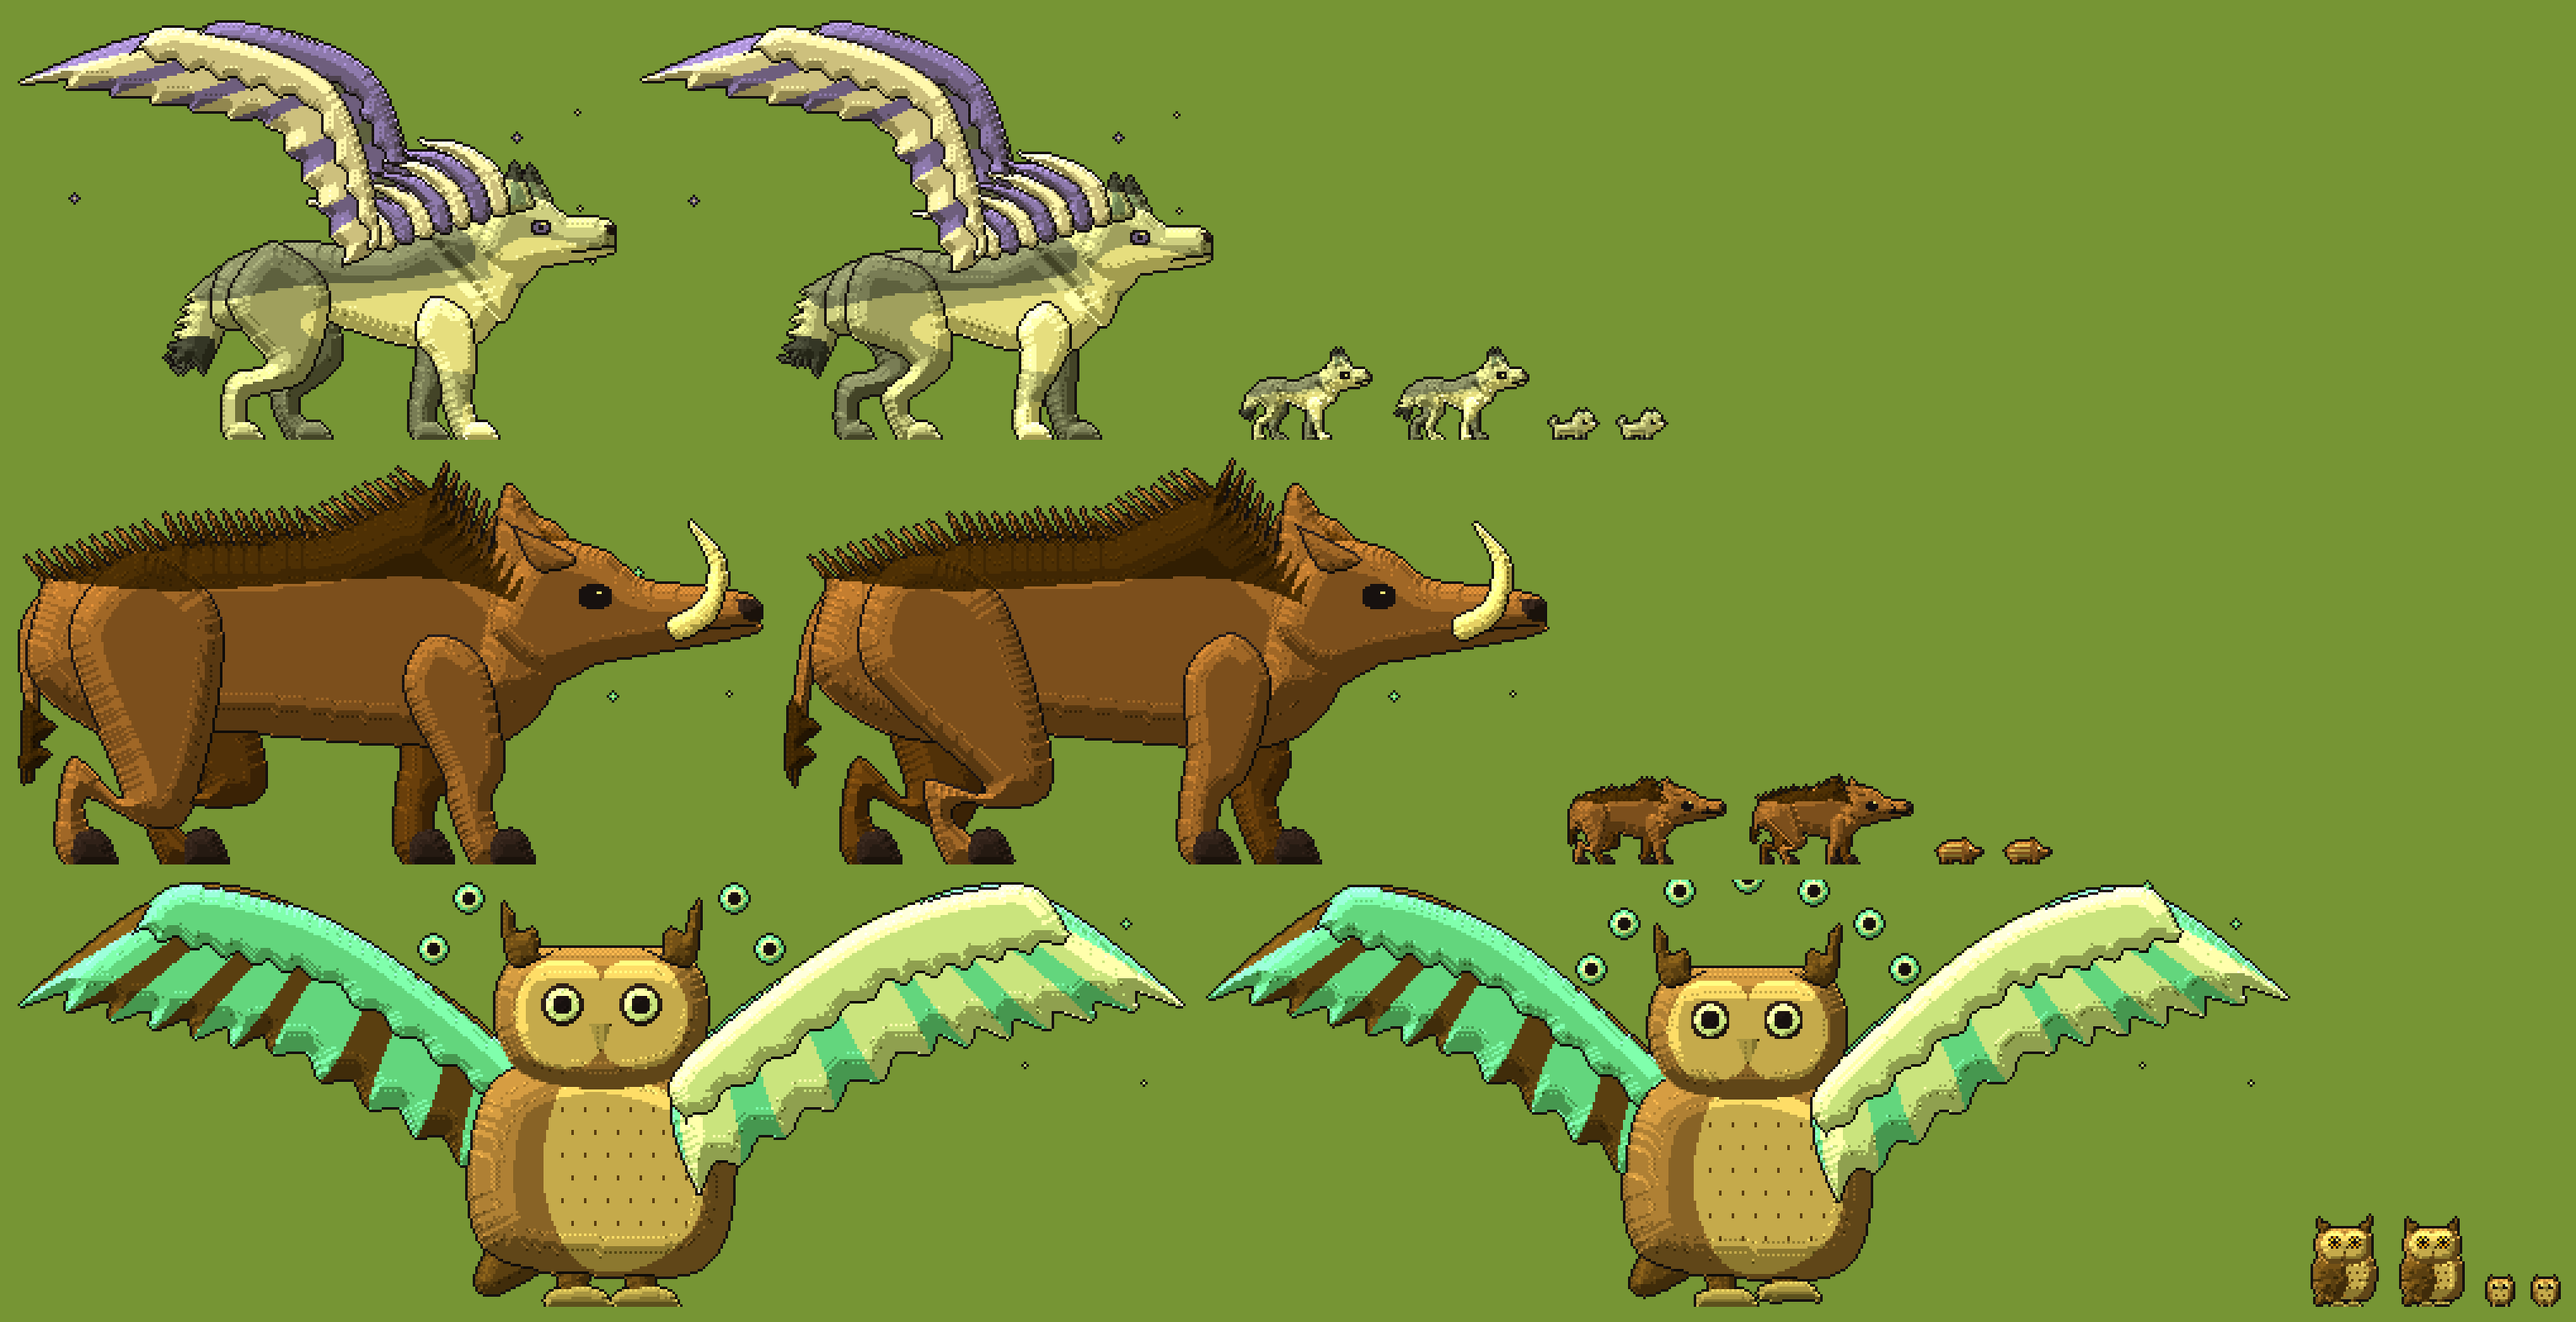
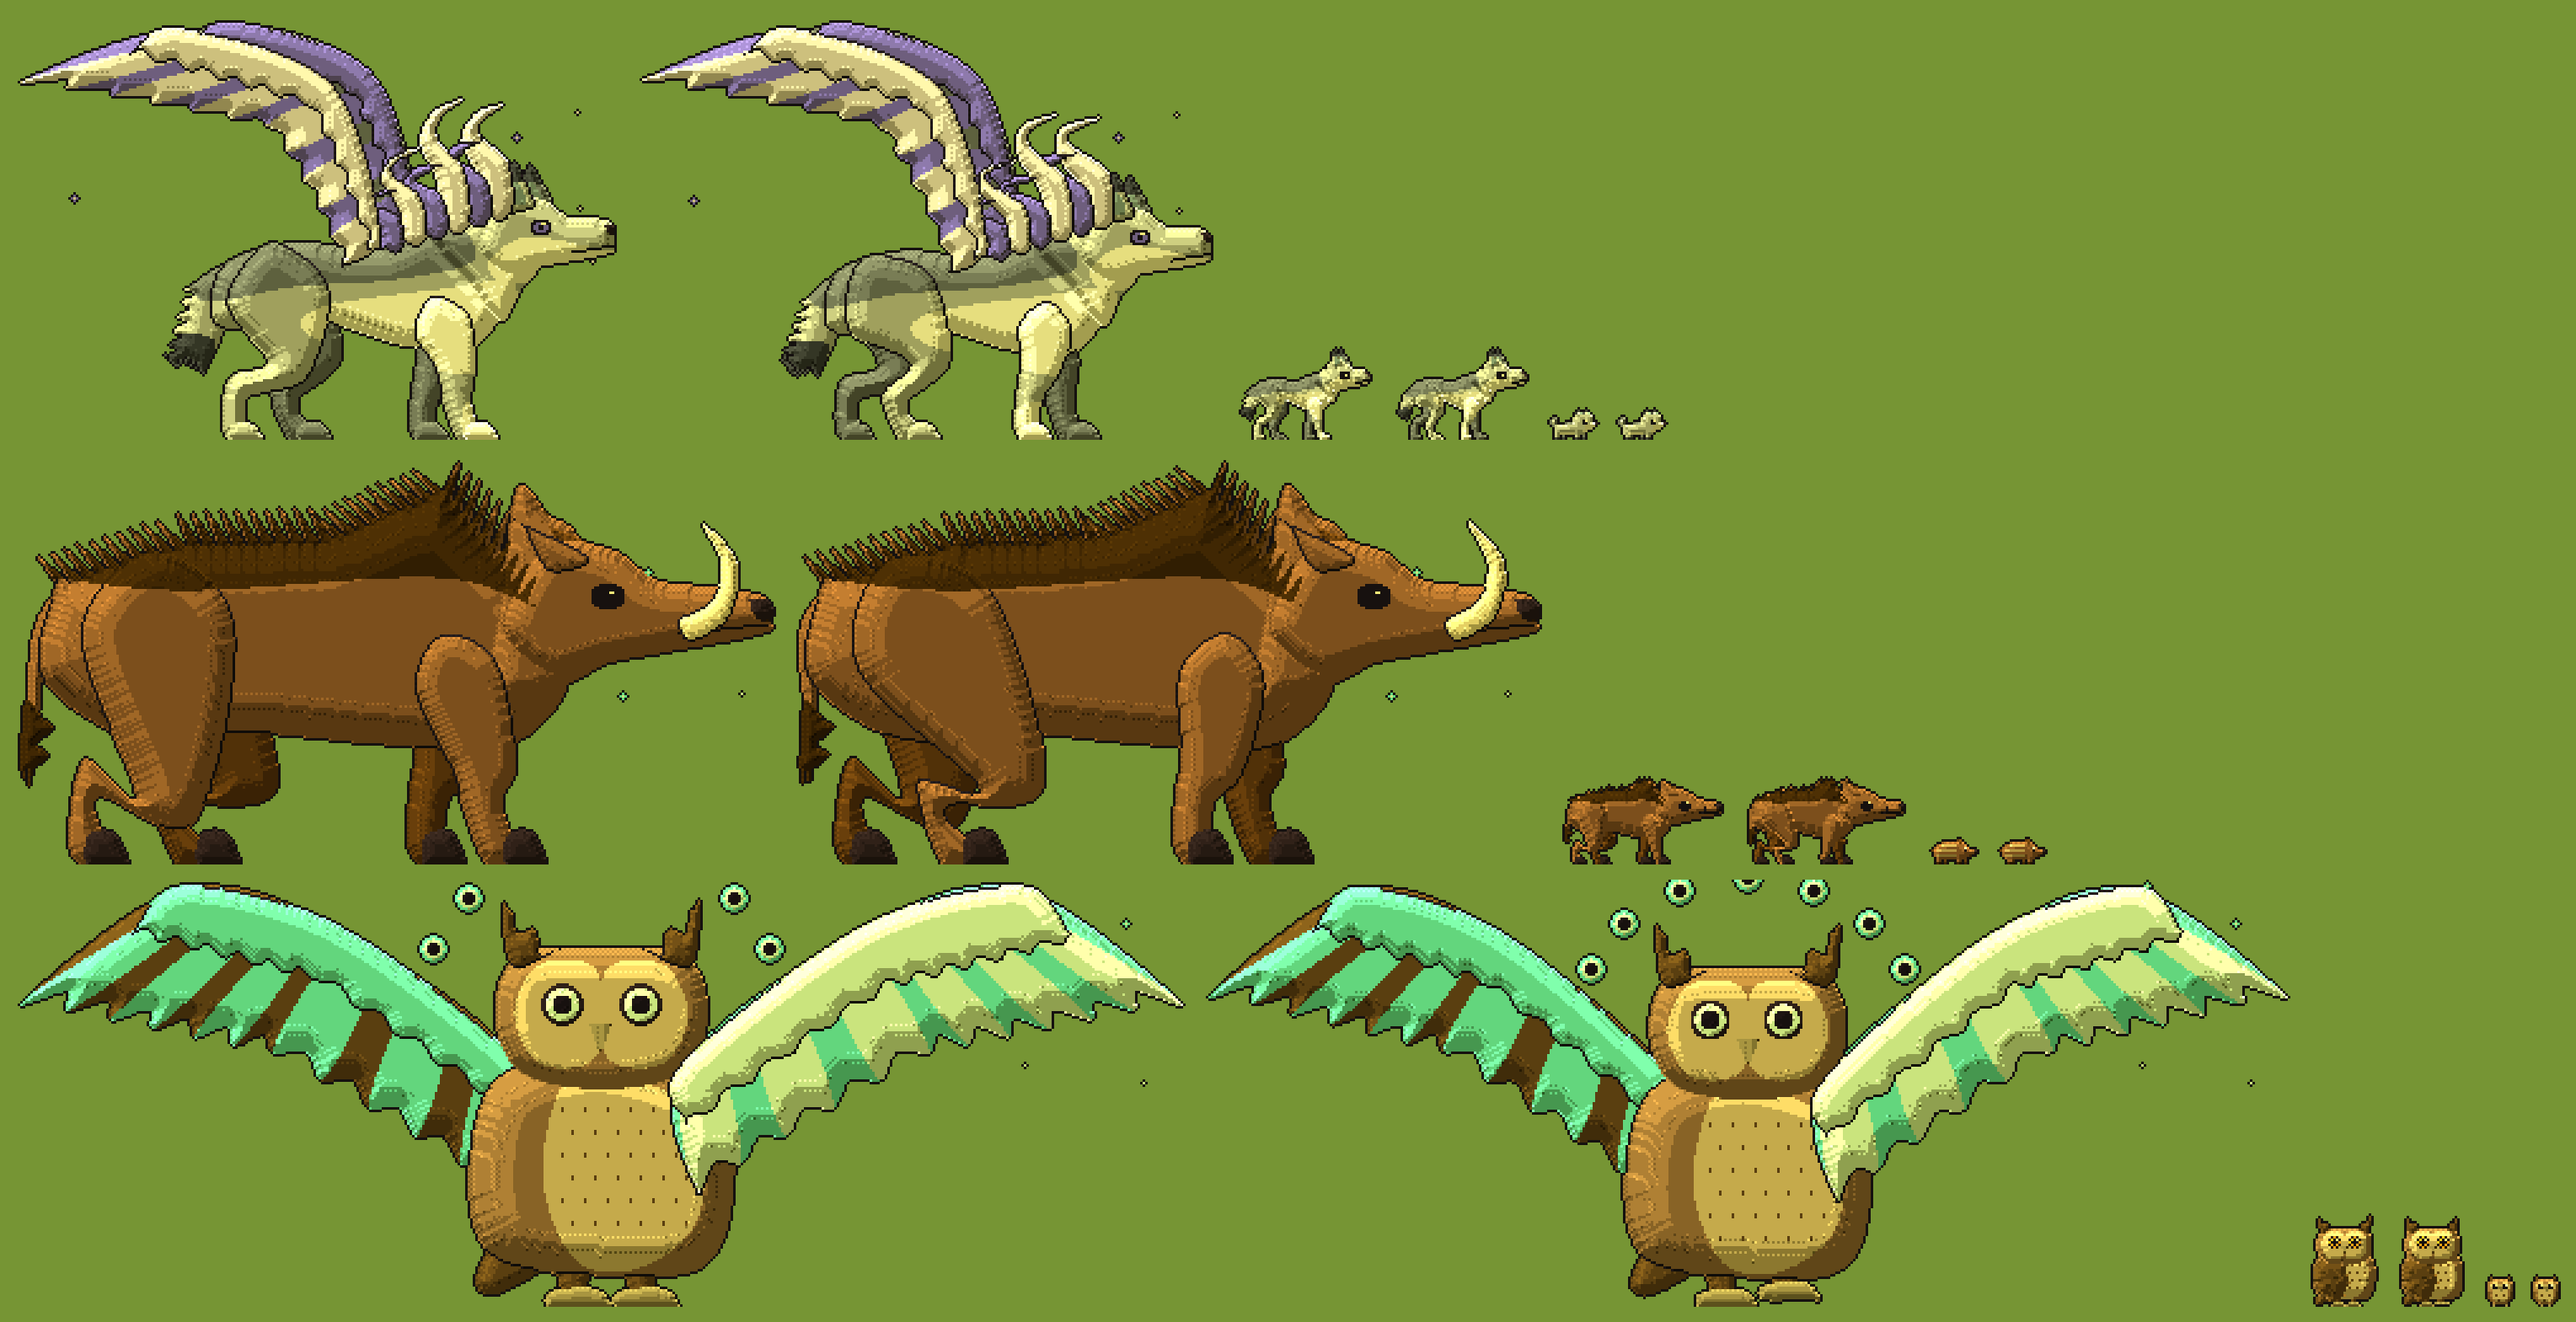
Art pass: export every asset for any engine, and the art's checks
art/export.mjs renders each creature (level, walk frame), tree (whole,
top, bottom), bush and the witch for a style file to albedo and
normal-map PNGs plus manifest.json (size, anchor at the feet). art/out
is not committed. art/check.mjs builds the lab, loads both lab pages
headless and checks every sprite; CLAUDE.md names it as the check.
The Stripes and spots knob now sets how spotted a coat is.

Claude-Session: https://claude.ai/code/session_01FVGKHvaavDn5xGsWtRTBaz

diff --git a/tools/art-lab/dist/witch-art-lab.html b/tools/art-lab/dist/witch-art-lab.html
@@ -1349,7 +1349,7 @@ function quad(S, level, frame, st) {
       const step = Math.max(3, Math.round(s * .09)), mat = q.spots === "young" ? M.BELLY : M.BODY3, [, yb] = T([0, back + .1]), [, yc] = T([0, chest + .05]);
       for (let y = yb; y < yc; y += step) for (let x = 0; x < sp.w; x += step) {
         const ox = x + (((y / step) | 0) % 2 ? step >> 1 : 0) + (hash2(x, y, 3) * 2 | 0), i = y * sp.w + ox;
-        if (sp.m[i] === M.BODY && sp.g[i] === 1 && sp.m[i + 1] === M.BODY && hash2(x, y, 5) < .75) { sp.m[i] = mat; if (s > 40) sp.m[i + 1] = mat; }
+        if (sp.m[i] === M.BODY && sp.g[i] === 1 && sp.m[i + 1] === M.BODY && hash2(x, y, 5) < .25 + st.fur) { sp.m[i] = mat; if (s > 40) sp.m[i + 1] = mat; }
       }
     }
   });

diff --git a/art/creatures.js b/art/creatures.js
@@ -235,7 +235,7 @@ function quad(S, level, frame, st) {
       const step = Math.max(3, Math.round(s * .09)), mat = q.spots === "young" ? M.BELLY : M.BODY3, [, yb] = T([0, back + .1]), [, yc] = T([0, chest + .05]);
       for (let y = yb; y < yc; y += step) for (let x = 0; x < sp.w; x += step) {
         const ox = x + (((y / step) | 0) % 2 ? step >> 1 : 0) + (hash2(x, y, 3) * 2 | 0), i = y * sp.w + ox;
-        if (sp.m[i] === M.BODY && sp.g[i] === 1 && sp.m[i + 1] === M.BODY && hash2(x, y, 5) < .75) { sp.m[i] = mat; if (s > 40) sp.m[i + 1] = mat; }
+        if (sp.m[i] === M.BODY && sp.g[i] === 1 && sp.m[i + 1] === M.BODY && hash2(x, y, 5) < .25 + st.fur) { sp.m[i] = mat; if (s > 40) sp.m[i + 1] = mat; }
       }
     }
   });

diff --git a/CLAUDE.md b/CLAUDE.md
@@ -10,7 +10,11 @@ Nothing deploys yet: a push or merge to `main` ships nothing. Before any deploy 
 
 ## Testing
 
-No code and no tests yet. The first builder that adds code also adds the project's checks, and names here the exact commands CI runs.
+There is no CI yet. The art generator (`art/`, entry `art/generator.js`) and the Witch Art Lab (`tools/art-lab/`) have one check, run from the repository root before every push:
+
+- `node art/check.mjs` — builds the lab, opens the source page and the built page in headless Chromium (no script errors, 20 bestiary cards, the scene drawn), and draws every creature, tree and bush (each non-empty and standing on its bottom row; legends taller than young, young taller than babies).
+
+Related commands: `node tools/art-lab/build.mjs` writes the self-contained lab page to `tools/art-lab/dist/witch-art-lab.html` (the one to publish); `node art/export.mjs [style.json] [out dir]` exports every asset as albedo and normal-map PNGs with `manifest.json` (default `art/out/`, not committed); `node art/preview.mjs animals|trees <list> <png> [scale]` renders lit preview sheets. They need Playwright's Chromium (in cloud sessions, under `/opt/pw-browsers`).
 
 ## Glossary
 
